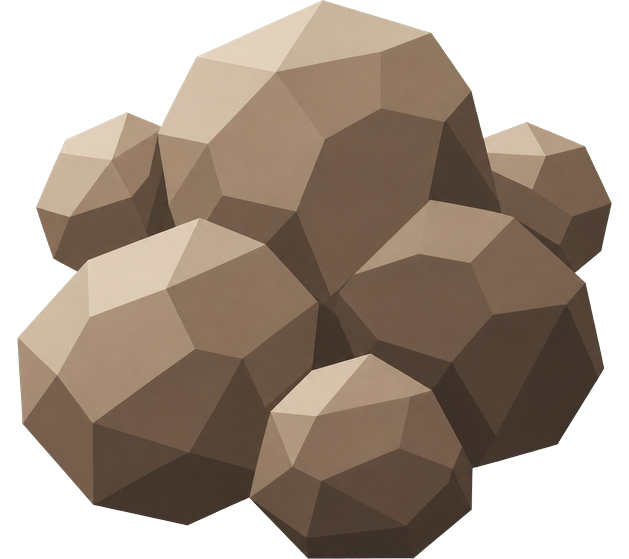
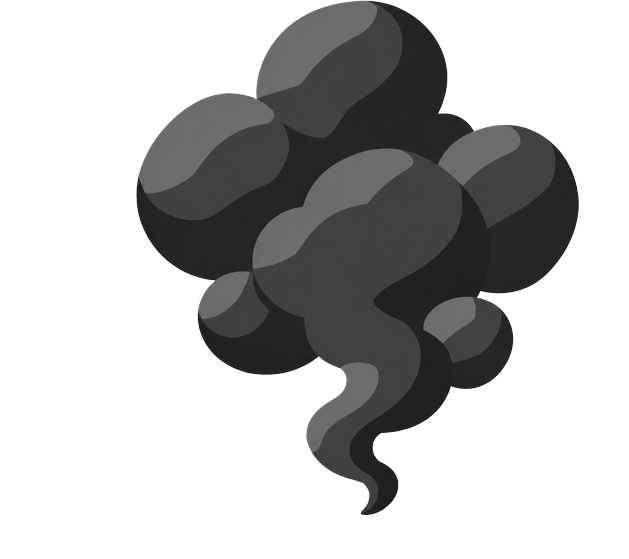
art: redraw magic_fail.png as black smoke, not a rock pile
First pass drew 5-8 angular mineral-looking facets in beige/tan and
read as a pile of stones, not smoke. Player.prefab / MagicFailEffecter
use this over the caster's head on a failed cast, so the subject read
wrong. Rewritten prompt locks charcoal/dark-grey palette (no beige,
tan, or brown), forbids rock/boulder/gravel wording outright, and asks
for round-edged puffy lobes instead of hard mineral facets.

Continues #682.

diff --git a/.art/PRODUCTION-STATUS.md b/.art/PRODUCTION-STATUS.md
@@ -79,8 +79,8 @@
 | `Bubble.png` | 클라이언트 PR (이슈 #682) | 119x119 RGBA. 물방울 표시, 저폴리 보석형 단일 도형. magenta 키 제거, 네 모서리 alpha 0 |
 | `Snared.png` | 클라이언트 PR (이슈 #682) | 256x191 RGBA. 속박 표시, X자로 교차한 다면체 덩굴, 끝에 가시 악센트. magenta 키 제거, 네 모서리 alpha 0 |
 | `frenzy.png` | 클라이언트 PR (이슈 #682) | 256x256 RGBA. 광폭화 표시, 진홍 발톱/번개 표식 3개, 발광 없이 면 대비로만 표현. magenta 키 제거, 네 모서리 alpha 0 |
-| `magic_fail.png` | 클라이언트 PR (이슈 #682) | 629x559 RGBA. 시전 실패 표시, 얼굴 없는 다면체 연기 뭉치. magenta 키 제거, 네 모서리 alpha 0 |
 | `panic.png` | 클라이언트 PR (이슈 #682) | 250x256 RGBA. 공포 표시, 다면체 느낌표. magenta 키 제거, 네 모서리 alpha 0 |
+| `magic_fail.png` | 클라이언트 PR (이슈 #682) | 629x559 RGBA. 시전 실패 표시, 검은 연기 뭉치. 1차 시도는 베이지색 돌무더기로 나와 revert 후 재시도 — 숯색·짙은 회색 계열, 둥글게 굴린 뭉게구름 로브, 돌처럼 보이지 않게 못박음. magenta 키 제거, 네 모서리 alpha 0 |
 
 ## 다음 교체 후보
 
